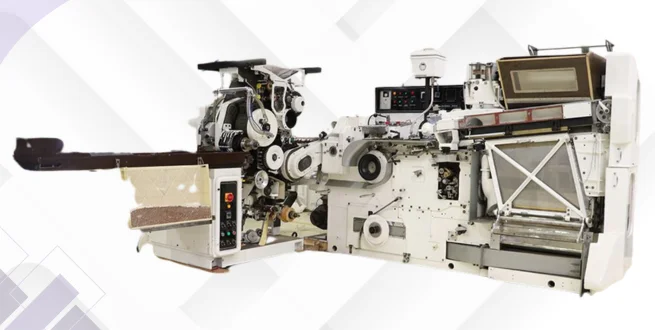
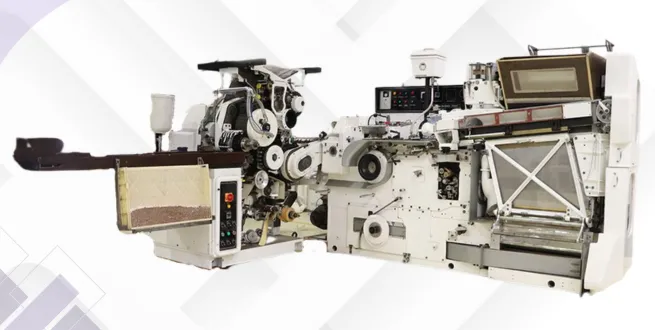
Mark 8 Post 64: replace photo; Filter Attachment -> Max Multiroll
Swap in the updated machine photo and change the Filter Attachment value
from "Molins Max Multiroll" to "Max Multiroll".

Claude-Session: https://claude.ai/code/session_01NJCgckGgyCvcr8WkB6aKnY

diff --git a/lib/products.ts b/lib/products.ts
@@ -535,7 +535,7 @@ const making: Product[] = [
       { label: "Cigarette Maker", value: "Molins MK-8 'Post 64' with double colour printer" },
       { label: "Cigarette Circumference", value: "17mm – 28.3mm" },
       { label: "Filter + Tobacco Rod Length", value: "65mm – 110mm" },
-      { label: "Filter Attachment", value: "Molins Max Multiroll" },
+      { label: "Filter Attachment", value: "Max Multiroll" },
       { label: "Default Setup Size", value: "Standard 84mm / 100mm / slims / super slims / nano" },
       { label: "Weight", value: "3,500 kg (approx.)" },
     ],
